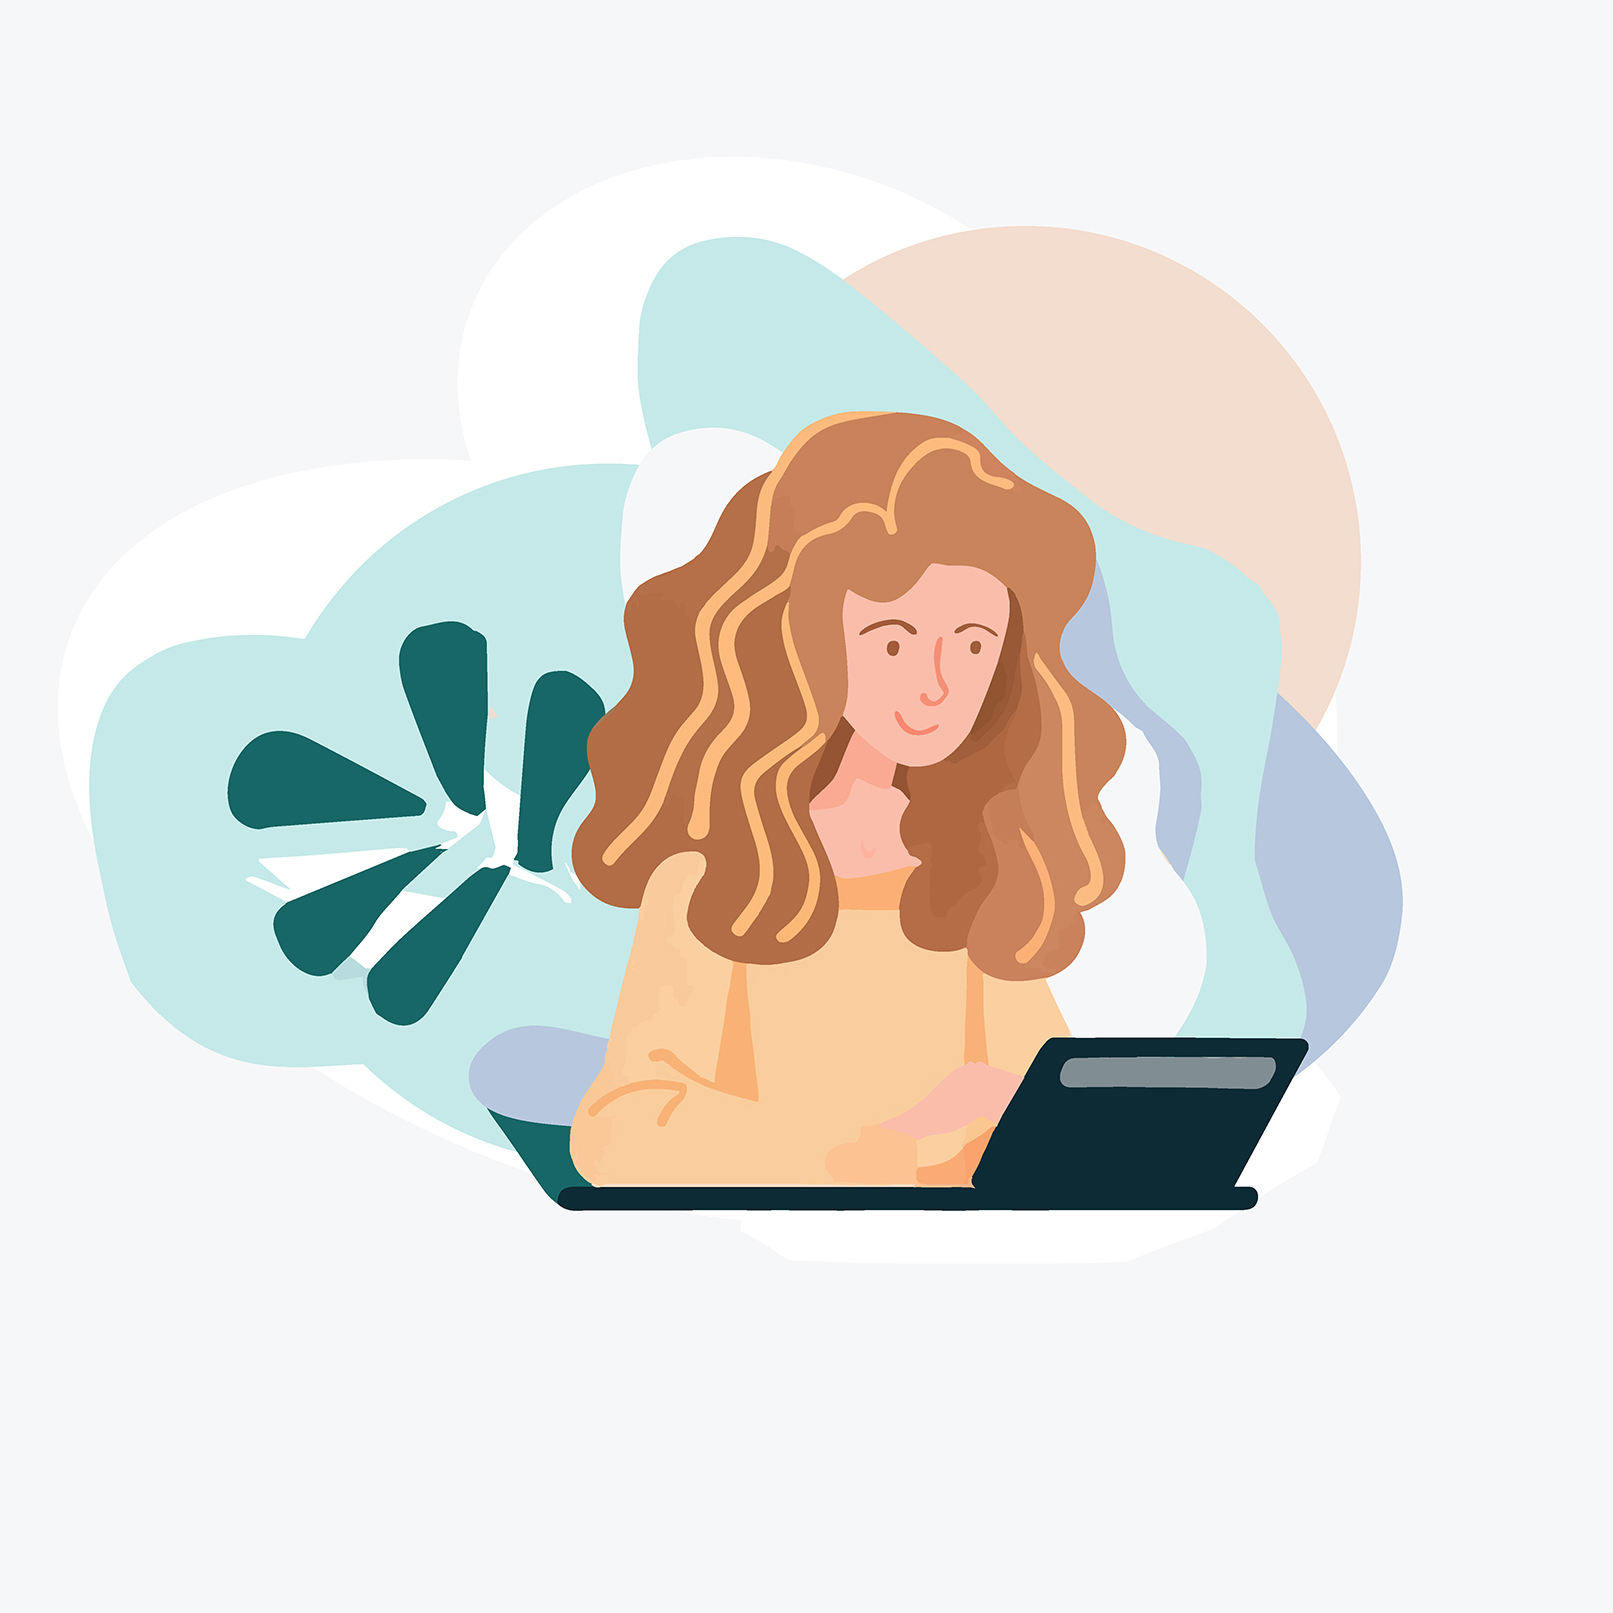
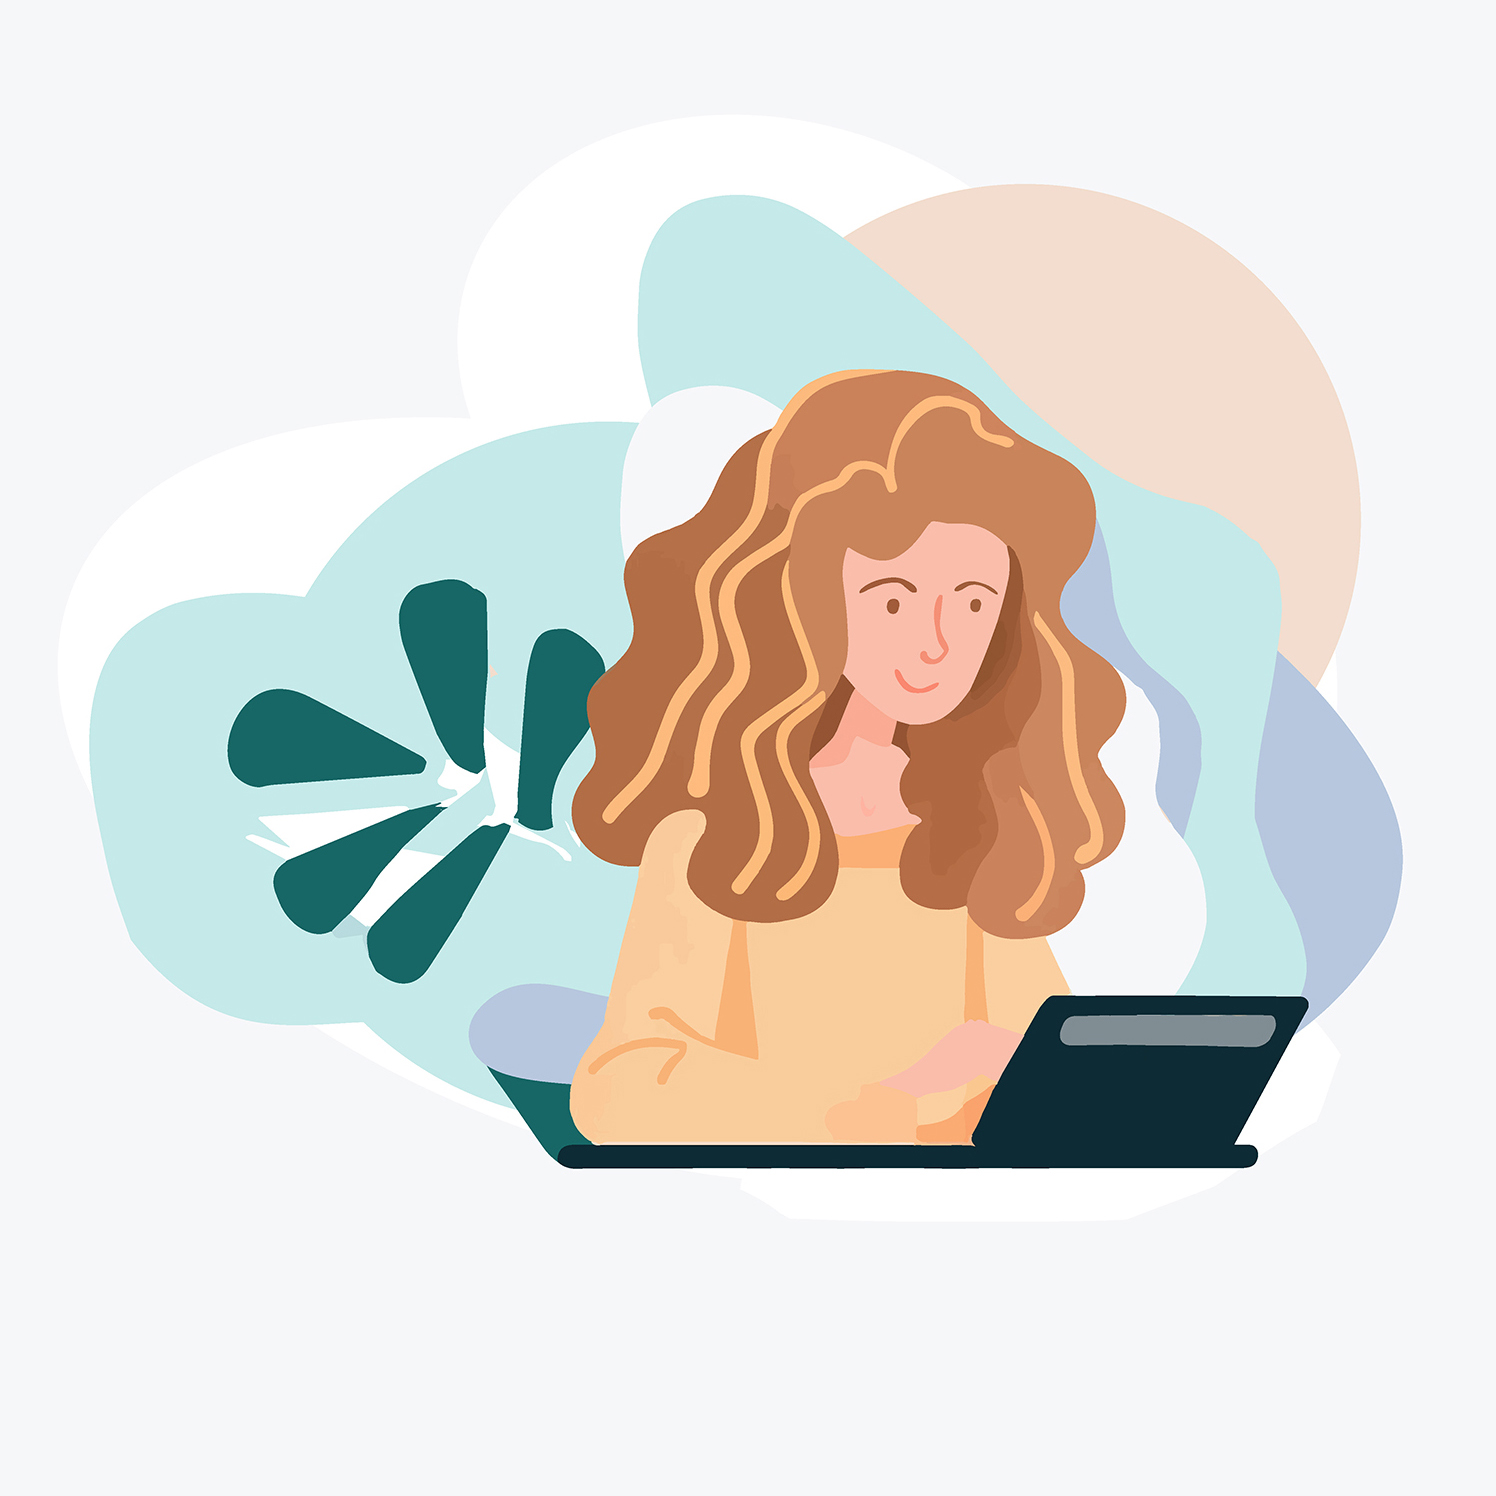
changes

diff --git a/index.html b/index.html
@@ -37,7 +37,7 @@
     - preload images
   -->
   <link rel="preload" as="image" href="./assets/images/hero-banner.jpg">
-  <link rel="preload" as="image" href="./assets/images/Blog.svg">
+  <!-- <link rel="preload" as="image" href="./assets/images/Blog.svg"> -->
 
   <!-- 
     - floating shapes 
@@ -148,7 +148,7 @@
         <div class="container">
 
           <figure class="hero-banner">
-            <img src="./assets/images/hero-banner.jpg" width="871" height="540" alt="Elevator" class="w-100"
+            <img src="./assets/images/hero-banner.jpg" width="540" height="540" alt="Elevator" class="w-100"
               data-reveal="top"> 
 
             <!-- <img src=" " width="203" height="91" alt="Elipse" class="shape"

diff --git a/assets/css/style.css b/assets/css/style.css
@@ -419,7 +419,7 @@ font-size: large;
 
 .hero .container {
   display: grid;
-  gap: 50px;
+  gap: 10px;
   
 }
 
@@ -429,7 +429,7 @@ font-size: large;
   margin-inline: auto;
 }
 
-.hero-banner .w-100 {
+/* .hero-banner .w-100 {
   mask-image: url("../images/Blob.svg");
   -webkit-mask-image: url("../images/Blog.svg");
   mask-repeat: no-repeat;
@@ -438,7 +438,7 @@ font-size: large;
   -webkit-mask-position: center;
   mask-size: auto;
   -webkit-mask-size: auto;
-}
+} */
 
 .hero .shape {
   position: absolute;
